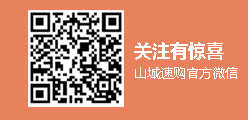
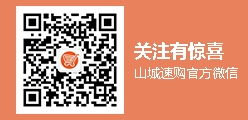
2015-11-3 底部链接等小问题

diff --git a/views/scsg/layouts/footer.html b/views/scsg/layouts/footer.html
@@ -168,21 +168,21 @@ function joinCart_list(id)
 
 <div class="bottom">
 <div class="pic_link">
-<a href="https://online.unionpay.com/" target="_blank" rel="nofollow">
+<a href="http://www.yqrtv.com/" target="_blank" rel="nofollow">
 <img src="{skin:images/1yqtvt.jpg}" alt="">
 </a>
 
 <a href="https://online.unionpay.com/" target="_blank" rel="nofollow">
-<img src="{skin:images/2gs.jpg}" alt="">
+<img src="{skin:images/2wifiyq.png}" alt="">
 </a>
 
 
 <a href="https://online.unionpay.com/" target="_blank" rel="nofollow">
-<img src="{skin:images/3wifiyq.png}" alt="">
+<img src="{skin:images/3xfz.png}" alt="">
 </a>
 
 <a href="https://online.unionpay.com/" target="_blank" rel="nofollow">
-<img src="{skin:images/4xfz.png}" alt="">
+<img src="{skin:images/4gs.jpg}" alt="">
 </a>
 
 <a href="https://online.unionpay.com/" target="_blank" rel="nofollow">
@@ -193,7 +193,7 @@ function joinCart_list(id)
 <img src="{skin:images/6alipay.jpg}" alt="">
 </a>
 
-<a href="https://online.unionpay.com/" target="_blank" rel="nofollow">
+<a href="http://www.yqccb.com/" target="_blank" rel="nofollow">
 <img src="{skin:images/7yqbank.jpg}" alt="">
 </a>
 

diff --git a/views/scsg/skin/black/css/tm.css b/views/scsg/skin/black/css/tm.css
@@ -10,6 +10,7 @@
 .pp_tm_con_fr i { font-weight:normal; font-style:normal}
 .pp_tm_con_se {width:1190px; float:left;}
 .pp_tm_con_se_l { width:922px; float:left; overflow:hidden;}
+.pp_tm_con_se_r {width:247px;float:right;overflow:hidden;}
 .pp_tm_con_show { border:1px solid #e1e1e1; width:920px; height:210px; position:relative; margin-bottom:20px;}
 .pp_tm_con_show .time{width:192px; height:210px; float:right;}
 .pp_tm_con_show a:hover{color:#c71c60;}

diff --git a/views/scsg/layouts/head.html b/views/scsg/layouts/head.html
@@ -83,7 +83,7 @@ $favorite_ids = implode(',',$favorite_id_arr);}
 										<div class="hd_mobile_show">
 										
 										<div class="hd_mobile_content">
-										<img src="{skin:images/erweima.png}" alt=""/>
+										<img src="{skin:images/erweima.jpg}" alt=""/>
 										</div>
 										
 										<dl class="hd_mobile_tab">
